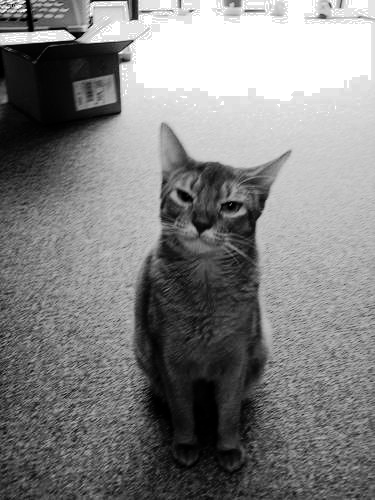
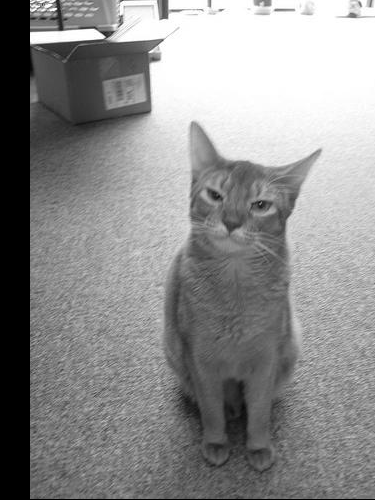
implementacao translacao sem preenchimento de espacos

diff --git a/main.py b/main.py
@@ -27,7 +27,7 @@ def aumentoDados(imagem):
     imagem_salvar.save(f"imagens_sinteticas/{qntImagens}.png")
 
 def gamma(imagem):
-    rand = np.random.randint(0, 2)
+    rand = np.random.randint(0, 2)  # sorteia se o gamma sera maior ou menor que 1
     if rand:
         gamma = rng.random()
     else:
@@ -35,17 +35,17 @@ def gamma(imagem):
    
     c = 255 / (255 ** gamma)
     
-    # Vetorização: Aplica a fórmula na matriz inteira de uma vez
+    # usa numpy pra fazer a operação gamma
     img_gamma = c * (imagem.astype(float) ** gamma)
     
     # Garante que os valores não ultrapassem os limites do uint8
     img_gamma = np.clip(img_gamma, 0, 255).astype(np.uint8)
     
-    # Recomendo retornar img_gamma em vez de salvar aqui
-    return img_gamma
+    # Retorna a imagem para ser salva
+    return img_gamma.astype(np.uint8)
     
     
-def equalizacaoHistograma(imagem):
+def equalizacaoHistograma(imagem):  # TODO: usar numpy na equalizacao
     bins = range(0, 257)
     hist, bins = np.histogram(imagem, bins)    # Calcula quantos pixels possuem cada nível de intensidade
 
@@ -74,9 +74,19 @@ def suavizacaoGaussiana(imagem):
     return imagem
 
 def translacao(imagem):
-    print("implemente a translacao")
+    deltax = rng.integers(-50, 51)
+    deltay = rng.integers(-50, 51)
+    num_rows, num_cols = imagem.shape
+    
+    img_transl = np.zeros(imagem.shape)
+    for row in range(num_rows):
+        for col in range(num_cols):
+            y_original = row - deltay
+            x_original = col - deltax
+            if 0 <= y_original < num_rows and 0 <= x_original < num_cols:
+                img_transl[row, col] = imagem[row - deltay, col - deltax]
 
-    return imagem
+    return img_transl.astype(np.uint8)
 
 def rotacao(imagem):
     print("implemente a rotacao")
@@ -90,7 +100,7 @@ def main():
     for arquivo in caminho_pasta.iterdir():
         # Verifica se o item é realmente um arquivo (ignora subpastas)
         if arquivo.is_file():
-            # Obtém o caminho completo/absoluto do arquivo
+            # Obtém o caminho absoluto do arquivo
             caminho_completo = arquivo.resolve()
             img = np.array(Image.open(caminho_completo))
             for _ in range(9):

diff --git a/teste.py b/teste.py
@@ -3,14 +3,14 @@ import numpy as np
 from PIL import Image
 
 # Importa funções específicas do arquivo pipeline.py
-from main import equalizacaoHistograma
+from main import translacao
 
 
 def testar_funcao_individual():
     # Carrega uma única imagem para teste
     img_original = np.array(Image.open("Imagens/Abyssinian_96.jpg"))
     # Testa apenas a função gamma
-    img_resultado = equalizacaoHistograma(img_original)
+    img_resultado = translacao(img_original)
     
     # Exibe o resultado na tela (útil para testes rápidos)
     Image.fromarray(img_resultado).show()
